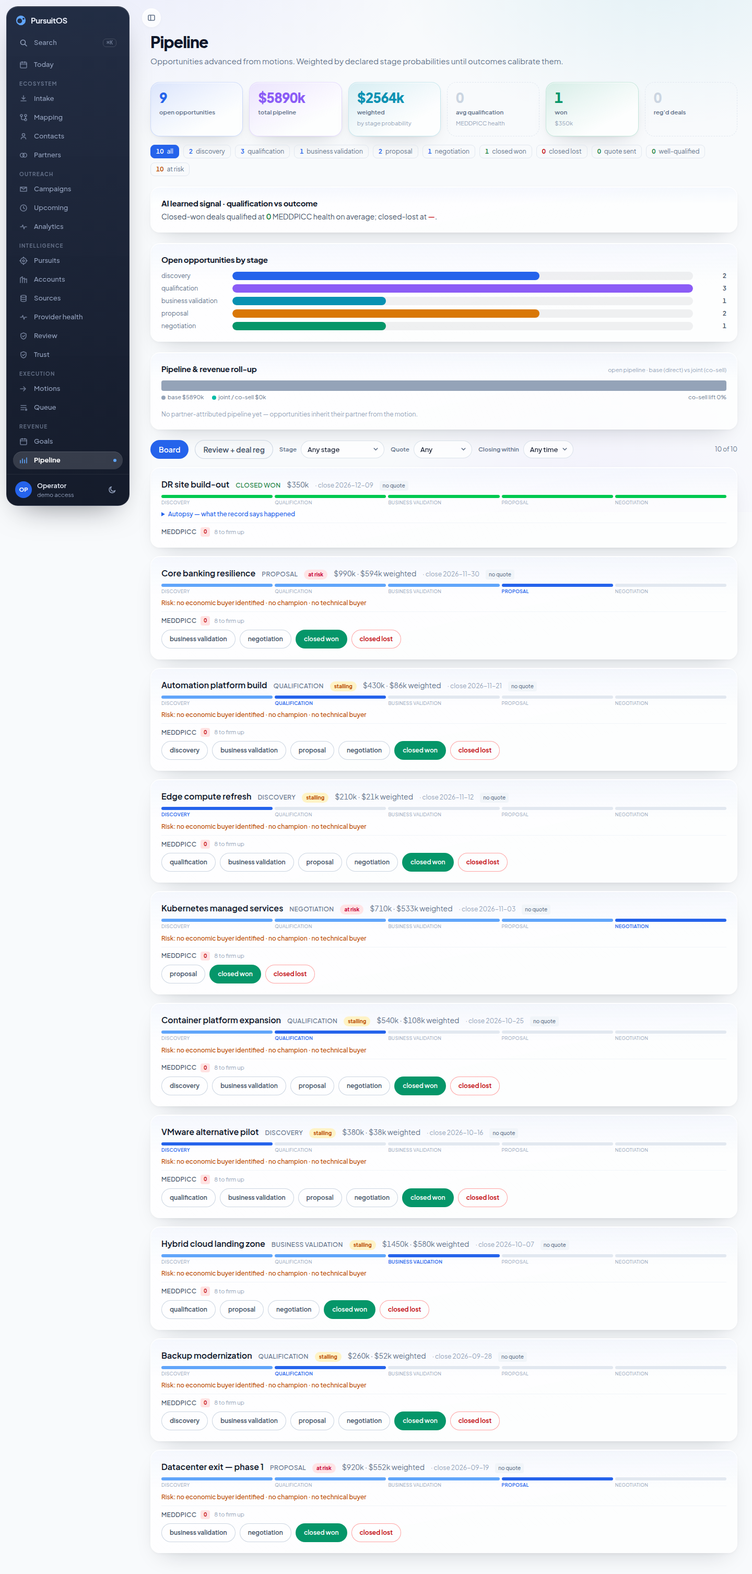
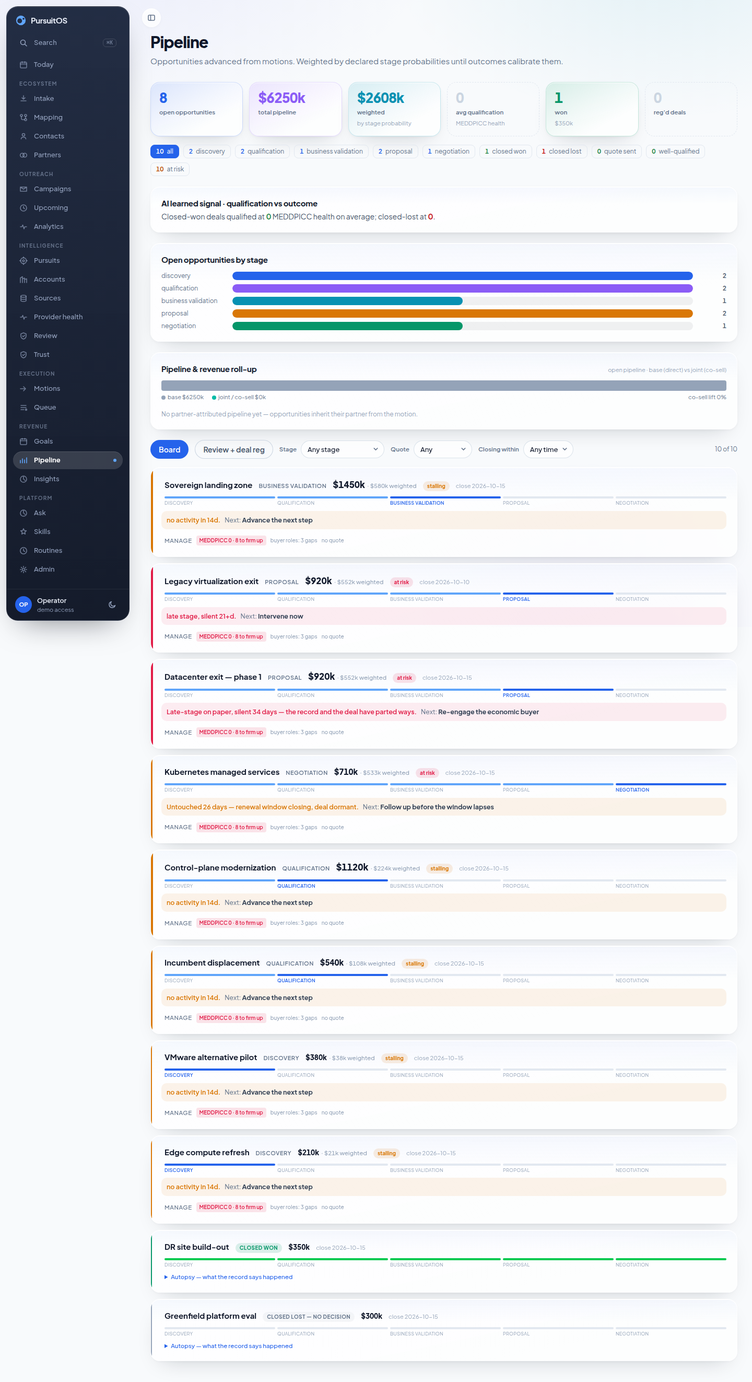
Phase 3c-1: Pipeline de-CRM — materiality + intervention, progressive disclosure
Refactor the board opportunity card so Pipeline answers "where is the money,
what is lying to me, what changed, what should we do" instead of reading like
a CRM board. Aggregate intelligence at the top is unchanged.

- Materiality controls order + hierarchy: open deals sorted by weighted value
  (closed sink to the bottom); a left accent rail whose width scales with
  amount tier and whose color encodes the condition (rose at-risk / amber
  stalling / route-teal advancing / verified won).
- Primary scan surfaces what is actually happening + the next intervention,
  reusing the SAME canonical Where-Your-Systems-Disagree conditions and
  language (e.g. Umbrella "Late-stage on paper, silent 34 days — the record
  and the deal have parted ways. Next: Re-engage the economic buyer"; Hooli
  "Untouched 26 days — renewal window closing, dormant").
- One clean stage rail (removed the duplicate stage pill).
- MEDDPICC, buyer-role gaps, quote state, stakeholders, stage-advance and
  initiative controls fold into one "Manage" progressive-disclosure region
  (native <details>, robust without JS). MEDDPICC/gaps summarized on the
  collapsed summary.
- Outcomes read as outcomes: "Closed won" / "Closed lost — no decision"
  badges, not generic stage buttons; autopsy stays available.
- Preserves canonical stage/amount/weighted/close/outcome; UNKNOWN stays
  UNKNOWN; recommendation vs human override unchanged; all interactive
  server-action forms preserved verbatim.
[…]

Changed region(s): [[0.0, 0.0, 0.9688, 0.9921], [0.875, 0.062, 0.9375, 0.124], [0.8125, 0.775, 0.875, 0.806]]

diff --git a/src/app/pipeline/page.tsx b/src/app/pipeline/page.tsx
@@ -794,231 +794,194 @@ export default async function PipelinePage({
       )}
 
       {view === "board" && visible.length > 0 && (
-      <div className="space-y-4">
-        {visible.map((o) => {
+      <div className="space-y-3">
+        {[...visible]
+          // Materiality controls order: open deals by weighted value, closed sink to the bottom.
+          .sort((a, b) => {
+            const ca = a.stage.startsWith("closed"), cb = b.stage.startsWith("closed");
+            if (ca !== cb) return ca ? 1 : -1;
+            return (Number(b.amount_usd ?? 0) * probOf(b)) - (Number(a.amount_usd ?? 0) * probOf(a));
+          })
+          .map((o) => {
           const stakeholders = stakeholdersByOpp.get(o.id) ?? [];
           const gaps = o.stage.startsWith("closed") ? [] : stakeholderGaps(stakeholders);
           const stageIdx = STAGES.indexOf(o.stage as (typeof STAGES)[number]);
           const won = o.stage === "closed_won";
           const lost = o.stage === "closed_lost";
+          const closed = won || lost;
           const quote = quoteOf(o.id);
           const mo = momentum.get(o.id);
+          const amt = o.amount_usd != null ? Number(o.amount_usd) : null;
+          const weighted = amt != null && !closed ? Math.round((amt * probOf(o)) / 1000) : null;
+          // Canonical "what is actually happening" — same conditions/language as Where-Your-Systems-Disagree.
+          const silentDays = o.updated_at ? Math.floor((Date.now() - new Date(o.updated_at).getTime()) / 86_400_000) : null;
+          const lateStage = o.stage === "proposal" || o.stage === "negotiation";
+          const material = amt != null && amt >= 900_000 ? "high" : amt != null && amt >= 400_000 ? "mid" : "low";
+          type Att = { tone: "rose" | "amber"; label: string; next: string } | null;
+          const attention: Att = closed ? null
+            : lateStage && silentDays != null && silentDays >= 30 ? { tone: "rose", label: `Late-stage on paper, silent ${silentDays} days — the record and the deal have parted ways`, next: "Re-engage the economic buyer" }
+            : silentDays != null && silentDays >= 21 ? { tone: "amber", label: `Untouched ${silentDays} days — renewal window closing, deal dormant`, next: "Follow up before the window lapses" }
+            : mo?.verdict === "at_risk" ? { tone: "rose", label: mo.reasons.join(" · ") || "Momentum at risk", next: "Intervene now" }
+            : mo?.verdict === "stalling" ? { tone: "amber", label: mo.reasons.join(" · ") || "Stalling — plan says moving, outbox stopped", next: "Advance the next step" }
+            : null;
+          const railColor = won ? "var(--color-accent-verified)" : lost ? "var(--color-neutral-400)"
+            : attention?.tone === "rose" ? "var(--color-accent-risk)" : attention?.tone === "amber" ? "var(--color-accent-attention)"
+            : mo?.verdict === "advancing" ? "var(--color-route)" : "var(--border-subtle)";
+          const attTone = (t: "rose" | "amber") => t === "rose"
+            ? { fg: "var(--color-accent-risk)", bg: "color-mix(in srgb, var(--color-accent-risk) 8%, transparent)" }
+            : { fg: "var(--color-accent-attention)", bg: "color-mix(in srgb, var(--color-accent-attention) 9%, transparent)" };
           return (
-            <Card key={o.id}>
-              <div className="mb-2 flex flex-wrap items-baseline gap-x-3 gap-y-1">
-                <Link href={`/accounts/${o.company_id}`} className="font-semibold hover:underline">
-                  {o.name}
-                </Link>
-                <span className={`text-xs font-medium uppercase tracking-wide ${won ? "text-positive dark:text-green-400" : lost ? "text-red-700 dark:text-red-400" : "text-neutral-500"}`}>
-                  {o.stage.replace(/_/g, " ")}
-                </span>
-                {mo && (
-                  <span
-                    title={mo.reasons.join(" · ") || "observed behavior over the last 14 days"}
-                    className={`rounded-full px-2 py-0.5 text-micro font-bold ${
-                      mo.verdict === "advancing"
-                        ? "bg-emerald-100 text-emerald-700 dark:bg-emerald-950 dark:text-emerald-300"
-                        : mo.verdict === "at_risk"
-                          ? "bg-rose-100 text-rose-700 dark:bg-rose-950 dark:text-rose-300"
-                          : mo.verdict === "stalling"
-                            ? "bg-amber-100 text-amber-700 dark:bg-amber-950 dark:text-amber-300"
-                            : "bg-neutral-100 text-neutral-500 dark:bg-neutral-800"
-                    }`}
-                  >
+            <Card key={o.id} className={`relative overflow-hidden ${material === "high" && attention ? "shadow-[var(--shadow-mid)]" : ""}`}>
+              {/* Materiality + attention accent rail */}
+              <div aria-hidden className="absolute inset-y-0 left-0" style={{ width: material === "high" ? 4 : material === "mid" ? 3 : 2, background: railColor }} />
+
+              {/* Header — identity, outcome/stage, materiality amount, route */}
+              <div className="flex flex-wrap items-baseline gap-x-3 gap-y-1 pl-1.5">
+                <Link href={`/accounts/${o.company_id}`} className="text-[15px] font-bold hover:underline">{o.name}</Link>
+                {closed
+                  ? <span className="rounded-full px-2 py-0.5 text-[10px] font-bold uppercase tracking-[0.04em]" style={won ? { background: "color-mix(in srgb, var(--color-accent-verified) 14%, transparent)", color: "var(--color-accent-verified)" } : { background: "var(--surface-inset)", color: "var(--color-neutral-500)" }}>{won ? "Closed won" : "Closed lost — no decision"}</span>
+                  : <span className="text-[11px] font-semibold uppercase tracking-[0.04em] text-neutral-500">{o.stage.replace(/_/g, " ")}</span>}
+                {amt != null && (
+                  <span className="tnum" style={{ fontSize: material === "high" ? 17 : material === "mid" ? 15 : 13.5, fontWeight: 800 }}>
+                    ${Math.round(amt / 1000)}k
+                    {weighted != null && <span className="ml-1 text-[11.5px] font-medium text-neutral-400">· ${weighted}k weighted</span>}
+                  </span>
+                )}
+                {o.partner_name && <span className="text-[11.5px] text-neutral-500">route <b className="text-neutral-600 dark:text-neutral-300">{o.partner_name}</b></span>}
+                {mo && !closed && (
+                  <span title={mo.reasons.join(" · ") || "observed behavior over the last 14 days"} className="rounded-full px-2 py-0.5 text-micro font-bold"
+                    style={mo.verdict === "advancing" ? { background: "color-mix(in srgb, var(--color-route) 12%, transparent)", color: "var(--color-route)" }
+                      : mo.verdict === "at_risk" ? { background: "color-mix(in srgb, var(--color-accent-risk) 12%, transparent)", color: "var(--color-accent-risk)" }
+                      : mo.verdict === "stalling" ? { background: "color-mix(in srgb, var(--color-accent-attention) 12%, transparent)", color: "var(--color-accent-attention)" }
+                      : { background: "var(--surface-inset)", color: "var(--color-neutral-500)" }}>
                     {mo.jointActive ? "◆ " : ""}{MOMENTUM_LABEL[mo.verdict]}
                   </span>
                 )}
-                {o.amount_usd != null && (
-                  <span className="tnum text-sm text-neutral-500">
-                    ${Math.round(Number(o.amount_usd) / 1000)}k
-                    {!o.stage.startsWith("closed") &&
-                      ` · $${Math.round((Number(o.amount_usd) * probOf(o)) / 1000)}k weighted`}
-                  </span>
-                )}
-                {o.partner_name && (
-                  <span className="text-xs text-neutral-400">via {o.partner_name}</span>
-                )}
-                {o.expected_close_date && (
-                  <span className="text-xs text-neutral-400">· close {new Date(o.expected_close_date).toISOString().slice(0, 10)}</span>
-                )}
-                {quote.delivered ? (
-                  <span className="rounded bg-green-100 px-1.5 py-0.5 text-micro font-medium text-positive dark:bg-green-950 dark:text-green-300" title={quote.note ?? "detected in email conversation"}>
-                    quote sent{quote.at ? ` · ${quote.at}` : ""}
-                  </span>
-                ) : (
-                  <span className="rounded bg-neutral-100 px-1.5 py-0.5 text-micro font-medium text-neutral-500 dark:bg-neutral-800" title="no priced document detected in the conversation yet">no quote</span>
-                )}
-                {initiativeOpts.length > 0 && (
-                  <form action={assignInitiativeAction.bind(null, o.id)} className="flex items-center gap-1" title="initiative this deal rolls up into — the target moves the moment you link it">
-                    <select
-                      name="initiativeId"
-                      defaultValue={o.initiative_id ?? ""}
-                      className={`max-w-[180px] rounded border bg-transparent px-1 py-0.5 text-xs ${o.initiative_id ? "border-violet-300 text-violet-700 dark:border-violet-800 dark:text-violet-300" : "border-neutral-300 text-neutral-500 dark:border-neutral-700"}`}
-                    >
-                      <option value="">no initiative</option>
-                      {initiativeOpts.map((i) => (
-                        <option key={i.id} value={i.id}>{i.name}</option>
-                      ))}
-                    </select>
-                    <button className="text-micro font-medium text-neutral-400 underline-offset-2 hover:underline">set</button>
-                  </form>
-                )}
-                {o.motion_id && (
-                  <Link
-                    href={`/briefs/${o.motion_id}`}
-                    className="ml-auto text-xs font-medium text-accent hover:underline dark:text-blue-400"
-                  >
-                    Brief →
-                  </Link>
-                )}
+                {o.expected_close_date && <span className="text-[11px] text-neutral-400">close {new Date(o.expected_close_date).toISOString().slice(0, 10)}</span>}
+                {o.motion_id && <Link href={`/briefs/${o.motion_id}`} className="ml-auto text-[11.5px] font-medium text-accent hover:underline dark:text-blue-400">Brief →</Link>}
               </div>
 
-              {/* Stage timeline — shown for every opportunity, won or lost or open. */}
-              <div className="mb-2 flex gap-1">
+              {/* One clean stage rail */}
+              <div className="mt-2.5 mb-1 flex gap-1 pl-1.5">
                 {STAGES.map((s, idx) => {
                   const on = won ? true : lost ? false : idx <= stageIdx;
-                  const isCurrent = !o.stage.startsWith("closed") && idx === stageIdx;
+                  const isCurrent = !closed && idx === stageIdx;
                   const tone = won ? "bg-green-500" : on ? (isCurrent ? "bg-blue-600" : "bg-blue-400") : "bg-neutral-200 dark:bg-neutral-700";
                   return (
                     <div key={s} className="flex-1" title={s.replace(/_/g, " ")}>
-                      <div className={`h-1.5 rounded-full ${tone}`} />
+                      <div className={`h-1 rounded-full ${tone}`} />
                       <div className={`mt-0.5 hidden text-[9px] uppercase tracking-wide sm:block ${isCurrent ? "font-semibold text-accent dark:text-blue-400" : "text-neutral-400"}`}>{s.replace(/_/g, " ")}</div>
                     </div>
                   );
                 })}
               </div>
-              {lost && <p className="mb-2 text-label font-medium text-red-700 dark:text-red-400">Closed lost — stages shown for the record.</p>}
-              {(won || lost) && autopsies.has(o.id) && (
-                <details className="mb-2">
-                  <summary className="cursor-pointer text-xs font-medium text-accent hover:underline dark:text-blue-400">Autopsy — what the record says happened</summary>
+
+              {/* PRIMARY: what is actually happening + the next intervention (materiality-gated) */}
+              {attention && (
+                <div className="mt-2 flex flex-wrap items-center gap-x-2 gap-y-1 rounded-control px-2.5 py-2 pl-2.5 text-[12.5px]" style={{ background: attTone(attention.tone).bg }}>
+                  <span className="font-semibold" style={{ color: attTone(attention.tone).fg }}>{attention.label}.</span>
+                  <span className="text-neutral-500">Next: <b className="text-neutral-700 dark:text-neutral-200">{attention.next}</b></span>
+                </div>
+              )}
+
+              {/* Manage — CRM detail behind progressive disclosure (native <details>, robust) */}
+              {!closed && (
+                <details className="mt-2 pl-1.5">
+                  <summary className="inline-flex cursor-pointer list-none items-center gap-2 text-[11.5px] font-medium text-neutral-500 hover:text-neutral-800 dark:hover:text-neutral-200">
+                    <span className="uppercase tracking-[0.04em]">Manage</span>
+                    {(() => { const m = meddpicc.get(o.id)!; const sc = meddpiccScore(m); const mg = meddpiccGaps(m);
+                      const t = sc >= 70 ? "var(--color-accent-verified)" : sc >= 40 ? "var(--color-accent-attention)" : "var(--color-accent-risk)";
+                      return <span className="tnum rounded px-1.5 py-0.5 text-micro font-semibold" style={{ background: `color-mix(in srgb, ${t} 12%, transparent)`, color: t }}>MEDDPICC {sc}{mg.length ? ` · ${mg.length} to firm up` : ""}</span>; })()}
+                    {gaps.length > 0 && <span className="text-micro text-neutral-400">buyer roles: {gaps.length} gap{gaps.length === 1 ? "" : "s"}</span>}
+                    {!quote.delivered && <span className="text-micro text-neutral-400">no quote</span>}
+                  </summary>
+
+                  <div className="mt-2.5 space-y-2.5">
+                    {gaps.length > 0 && (
+                      <p className="text-[12px] font-medium" style={{ color: "var(--color-accent-attention)" }}>Buyer-role gaps: {gaps.join(" · ")}</p>
+                    )}
+                    {stakeholders.length > 0 && (
+                      <div className="space-y-1">
+                        {stakeholders.map((s) => (
+                          <form key={s.contact_id} action={setStakeholderAction.bind(null, o.id, s.contact_id)} className="flex items-center gap-2 text-sm">
+                            <span className="font-medium">{s.name ?? s.email}</span>
+                            <select name="role" defaultValue={s.role} className="rounded border border-neutral-300 bg-transparent px-1 py-0.5 text-xs dark:border-neutral-700">
+                              {ROLES.map((r) => <option key={r} value={r}>{r.replace(/_/g, " ")}</option>)}
+                            </select>
+                            <select name="sentiment" defaultValue={s.sentiment} className="rounded border border-neutral-300 bg-transparent px-1 py-0.5 text-xs dark:border-neutral-700">
+                              {SENTIMENTS.map((r) => <option key={r} value={r}>{r}</option>)}
+                            </select>
+                            <button type="submit" className="text-xs font-medium text-accent hover:underline dark:text-blue-400">Save</button>
+                          </form>
+                        ))}
+                      </div>
+                    )}
+                    {/* MEDDPICC editor */}
+                    {(() => {
+                      const m = meddpicc.get(o.id)!;
+                      return (
+                        <div>
+                          <form action={assessMeddpiccAction.bind(null, o.id)} className="mb-2 flex items-center gap-2">
+                            <button className="rounded-md px-2.5 py-1 text-label font-medium text-accent ring-1 ring-inset ring-blue-300 hover:bg-blue-50 dark:text-blue-400 dark:ring-blue-800 dark:hover:bg-blue-950">AI assess from evidence</button>
+                            <span className="text-micro text-neutral-400">drafts every element you haven&rsquo;t set from stakeholders &amp; verified signals — your call to keep</span>
+                          </form>
+                          <div className="grid gap-1.5 sm:grid-cols-2">
+                            {ELEMENTS.map((e) => {
+                              const st = m[e.key];
+                              return (
+                                <form key={e.key} action={setMeddpiccAction.bind(null, o.id, e.key)} className="flex items-center gap-1.5 rounded-md border border-neutral-200 px-2 py-1.5 dark:border-neutral-800" title={e.hint}>
+                                  <span className="inline-flex h-5 w-5 shrink-0 items-center justify-center rounded bg-neutral-100 text-micro font-bold text-neutral-500 dark:bg-neutral-800">{e.letter}</span>
+                                  <div className="min-w-0 flex-1">
+                                    <div className="flex items-center gap-1">
+                                      <span className="truncate text-label font-medium">{e.label}</span>
+                                      {st.source === "ai_assist" && <span className="rounded bg-blue-100 px-1 text-[8px] font-bold uppercase text-accent dark:bg-blue-900 dark:text-blue-300" title="AI-drafted, unconfirmed">AI</span>}
+                                    </div>
+                                    <input name="notes" defaultValue={st.notes ?? ""} placeholder="notes" className="mt-0.5 w-full rounded border border-transparent bg-transparent text-label text-neutral-500 hover:border-neutral-200 focus:border-neutral-300 focus:outline-none dark:hover:border-neutral-700" />
+                                  </div>
+                                  <select name="status" defaultValue={st.status} className={`rounded px-1 py-0.5 text-micro font-medium ${STATUS_TONE[st.status]}`}>
+                                    {MEDDPICC_STATUSES.map((s) => <option key={s} value={s}>{STATUS_LABEL[s]}</option>)}
+                                  </select>
+                                  <button className="text-micro font-medium text-accent hover:underline dark:text-blue-400">save</button>
+                                </form>
+                              );
+                            })}
+                          </div>
+                        </div>
+                      );
+                    })()}
+                    {/* Stage controls (secondary — outcomes are not generic buttons) */}
+                    <div className="flex flex-wrap items-center gap-2 border-t pt-2.5" style={{ borderColor: "var(--border-subtle)" }}>
+                      <span className="text-micro uppercase tracking-[0.04em] text-neutral-400">Advance / close</span>
+                      {[...STAGES, "closed_won", "closed_lost"]
+                        .filter((s) => { const idx = STAGES.indexOf(s as (typeof STAGES)[number]); if (s === "closed_won" || s === "closed_lost") return true; return idx > stageIdx || idx === stageIdx - 1; })
+                        .map((s) => (
+                          <form key={s} action={advanceOpportunityAction.bind(null, o.id, s as Stage)}>
+                            <button type="submit" className={s === "closed_won" ? "rounded-md bg-green-700 px-3 py-1 text-xs font-medium text-white hover:bg-green-800" : s === "closed_lost" ? "rounded-md px-3 py-1 text-xs font-medium text-red-700 ring-1 ring-inset ring-red-300 hover:bg-red-50 dark:text-red-400 dark:ring-red-800 dark:hover:bg-red-950" : "rounded-md px-3 py-1 text-xs font-medium text-neutral-600 ring-1 ring-inset ring-neutral-300 hover:bg-neutral-50 dark:text-neutral-400 dark:ring-neutral-700 dark:hover:bg-neutral-900"}>{s.replace(/_/g, " ")}</button>
+                          </form>
+                        ))}
+                      {initiativeOpts.length > 0 && (
+                        <form action={assignInitiativeAction.bind(null, o.id)} className="ml-auto flex items-center gap-1" title="initiative this deal rolls up into">
+                          <select name="initiativeId" defaultValue={o.initiative_id ?? ""} className={`max-w-[180px] rounded border bg-transparent px-1 py-0.5 text-xs ${o.initiative_id ? "border-violet-300 text-violet-700 dark:border-violet-800 dark:text-violet-300" : "border-neutral-300 text-neutral-500 dark:border-neutral-700"}`}>
+                            <option value="">no initiative</option>
+                            {initiativeOpts.map((i) => <option key={i.id} value={i.id}>{i.name}</option>)}
+                          </select>
+                          <button className="text-micro font-medium text-neutral-400 underline-offset-2 hover:underline">set</button>
+                        </form>
+                      )}
+                    </div>
+                  </div>
+                </details>
+              )}
+
+              {/* Closed — the outcome + its autopsy, read as an outcome not a stage */}
+              {closed && autopsies.has(o.id) && (
+                <details className="mt-2 pl-1.5">
+                  <summary className="cursor-pointer text-[11.5px] font-medium text-accent hover:underline dark:text-blue-400">Autopsy — what the record says happened</summary>
                   <ul className="mt-1.5 space-y-0.5 text-sm text-neutral-600 dark:text-neutral-300">
                     {autopsies.get(o.id)!.lines.map((l, i) => <li key={i}>{l}</li>)}
                   </ul>
                   <p className="mt-1 text-label text-neutral-400">Assembled from the record at read time — duration, path, contact, and grounding sources. No opinions, no AI.</p>
                 </details>
-              )}
-
-              {gaps.length > 0 && (
-                <p className="mb-2 text-xs font-medium text-amber-700 dark:text-amber-400">
-                  Risk: {gaps.join(" · ")}
-                </p>
-              )}
-
-              {stakeholders.length > 0 && (
-                <div className="mb-2 space-y-1">
-                  {stakeholders.map((s) => (
-                    <form
-                      key={s.contact_id}
-                      action={setStakeholderAction.bind(null, o.id, s.contact_id)}
-                      className="flex items-center gap-2 text-sm"
-                    >
-                      <span className="font-medium">{s.name ?? s.email}</span>
-                      <select
-                        name="role"
-                        defaultValue={s.role}
-                        className="rounded border border-neutral-300 bg-transparent px-1 py-0.5 text-xs dark:border-neutral-700"
-                      >
-                        {ROLES.map((r) => (
-                          <option key={r} value={r}>
-                            {r.replace(/_/g, " ")}
-                          </option>
-                        ))}
-                      </select>
-                      <select
-                        name="sentiment"
-                        defaultValue={s.sentiment}
-                        className="rounded border border-neutral-300 bg-transparent px-1 py-0.5 text-xs dark:border-neutral-700"
-                      >
-                        {SENTIMENTS.map((r) => (
-                          <option key={r} value={r}>
-                            {r}
-                          </option>
-                        ))}
-                      </select>
-                      <button
-                        type="submit"
-                        className="text-xs font-medium text-accent hover:underline dark:text-blue-400"
-                      >
-                        Save
-                      </button>
-                    </form>
-                  ))}
-                </div>
-              )}
-
-              {/* MEDDPICC qualification */}
-              {(() => {
-                const m = meddpicc.get(o.id)!;
-                const score = meddpiccScore(m);
-                const gaps = meddpiccGaps(m);
-                const scoreTone = score >= 70 ? "bg-green-100 text-positive dark:bg-green-950 dark:text-green-300" : score >= 40 ? "bg-amber-100 text-amber-700 dark:bg-amber-950 dark:text-amber-300" : "bg-red-100 text-red-700 dark:bg-red-950 dark:text-red-300";
-                return (
-                  <details className="mt-2 border-t border-neutral-100 pt-2 dark:border-neutral-800">
-                    <summary className="flex cursor-pointer items-center gap-2 text-xs font-medium text-neutral-600 hover:text-neutral-900 dark:text-neutral-300 dark:hover:text-neutral-100">
-                      <span className="uppercase tracking-wide">MEDDPICC</span>
-                      <span className={`tnum rounded px-1.5 py-0.5 text-micro font-semibold ${scoreTone}`}>{score}</span>
-                      <span className="text-label font-normal text-neutral-400">
-                        {gaps.length === 0 ? "fully qualified" : `${gaps.length} to firm up`}
-                      </span>
-                    </summary>
-                    <div className="mt-2">
-                      <form action={assessMeddpiccAction.bind(null, o.id)} className="mb-2 flex items-center gap-2">
-                        <button className="rounded-md px-2.5 py-1 text-label font-medium text-accent ring-1 ring-inset ring-blue-300 hover:bg-blue-50 dark:text-blue-400 dark:ring-blue-800 dark:hover:bg-blue-950">
-                          AI assess from evidence
-                        </button>
-                        <span className="text-micro text-neutral-400">drafts every element you haven&rsquo;t set from stakeholders &amp; verified signals — your call to keep</span>
-                      </form>
-                      <div className="grid gap-1.5 sm:grid-cols-2">
-                        {ELEMENTS.map((e) => {
-                          const st = m[e.key];
-                          return (
-                            <form key={e.key} action={setMeddpiccAction.bind(null, o.id, e.key)} className="flex items-center gap-1.5 rounded-md border border-neutral-200 px-2 py-1.5 dark:border-neutral-800" title={e.hint}>
-                              <span className="inline-flex h-5 w-5 shrink-0 items-center justify-center rounded bg-neutral-100 text-micro font-bold text-neutral-500 dark:bg-neutral-800">{e.letter}</span>
-                              <div className="min-w-0 flex-1">
-                                <div className="flex items-center gap-1">
-                                  <span className="truncate text-label font-medium">{e.label}</span>
-                                  {st.source === "ai_assist" && <span className="rounded bg-blue-100 px-1 text-[8px] font-bold uppercase text-accent dark:bg-blue-900 dark:text-blue-300" title="AI-drafted, unconfirmed">AI</span>}
-                                </div>
-                                <input name="notes" defaultValue={st.notes ?? ""} placeholder="notes" className="mt-0.5 w-full rounded border border-transparent bg-transparent text-label text-neutral-500 hover:border-neutral-200 focus:border-neutral-300 focus:outline-none dark:hover:border-neutral-700" />
-                              </div>
-                              <select name="status" defaultValue={st.status} className={`rounded px-1 py-0.5 text-micro font-medium ${STATUS_TONE[st.status]}`}>
-                                {MEDDPICC_STATUSES.map((s) => <option key={s} value={s}>{STATUS_LABEL[s]}</option>)}
-                              </select>
-                              <button className="text-micro font-medium text-accent hover:underline dark:text-blue-400">save</button>
-                            </form>
-                          );
-                        })}
-                      </div>
-                    </div>
-                  </details>
-                );
-              })()}
-
-              {!o.stage.startsWith("closed") && (
-                <div className="mt-2 flex flex-wrap gap-2">
-                  {[...STAGES, "closed_won", "closed_lost"]
-                    .filter((s) => {
-                      const idx = STAGES.indexOf(s as (typeof STAGES)[number]);
-                      if (s === "closed_won" || s === "closed_lost") return true;
-                      return idx > stageIdx || idx === stageIdx - 1;
-                    })
-                    .map((s) => (
-                      <form key={s} action={advanceOpportunityAction.bind(null, o.id, s as Stage)}>
-                        <button
-                          type="submit"
-                          className={
-                            s === "closed_won"
-                              ? "rounded-md bg-green-700 px-3 py-1 text-xs font-medium text-white hover:bg-green-800"
-                              : s === "closed_lost"
-                                ? "rounded-md px-3 py-1 text-xs font-medium text-red-700 ring-1 ring-inset ring-red-300 hover:bg-red-50 dark:text-red-400 dark:ring-red-800 dark:hover:bg-red-950"
-                                : "rounded-md px-3 py-1 text-xs font-medium text-neutral-600 ring-1 ring-inset ring-neutral-300 hover:bg-neutral-50 dark:text-neutral-400 dark:ring-neutral-700 dark:hover:bg-neutral-900"
-                          }
-                        >
-                          {s.replace(/_/g, " ")}
-                        </button>
-                      </form>
-                    ))}
-                </div>
               )}
             </Card>
           );
